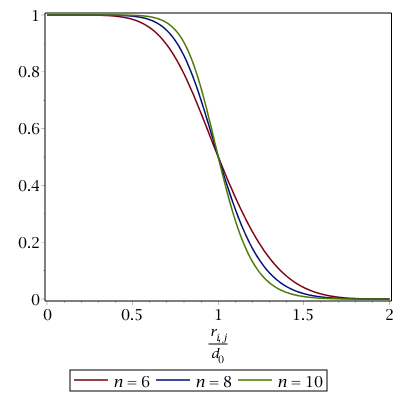
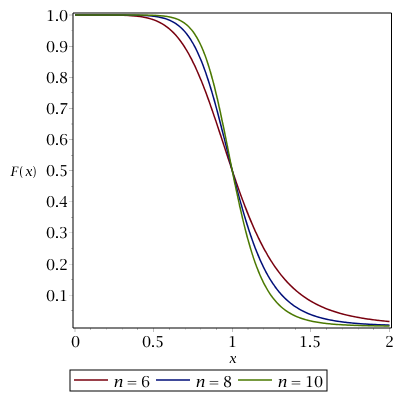
Implementation of HelixAngleContent

Changed region(s): [[0.03, 0.03, 0.99, 0.9]]

diff --git a/ufedmm/cvlib.py b/ufedmm/cvlib.py
@@ -48,16 +48,23 @@ class CoordinationNumber(openmm.CustomNonbondedForce):
 
     .. math::
         N(\\mathbf{g}_1, \\mathbf{g}_2) = \\sum_{i \\in \\mathbf{g}_1} \\sum_{j \\in \\mathbf{g}_2}
-                                          F_n \\left(\\frac{d_{i,j}}{d_0}\\right)
+                     S\\left(\\frac{d_{i,j}}{d_0}-1\\right) F_n \\left(\\frac{d_{i,j}}{d_0}\\right)
 
     where :math:`d_0` is a threshold distance and :math:`d_{ij}` is the distance between atoms
     :math:`i \\in \\mathbf{g}_1` and :math:`j \\in \\mathbf{g}_2`.
     The function :math:`F_n(x)` is a continuous step function defined as
 
     .. math::
-        F_n(x) = \\frac{S(x-1)}{1+x^n}
+        F_n(x) = \\frac{1}{1+x^n}
 
-    where :math:`n` is a sharpness parameter and :math:`S(x)` is a switching function given by
+    where :math:`n` is a sharpness parameter. With :math:`n = 6` (default), this is the same
+    function defined in :cite:`Iannuzzi_2003`. It has the following shape for varying `n` values:
+
+    .. image::
+        figures/coordination_number.png
+        :align: center
+
+    Besides, :math:`S(x)` is a switching function given by
 
     .. math::
         S(x) = \\begin{cases}
@@ -66,16 +73,8 @@ class CoordinationNumber(openmm.CustomNonbondedForce):
                    0 & x > 1
                \\end{cases}
 
-    It has the following shape:
-
-    .. image::
-        figures/coordination_number.png
-        :align: center
-
-    With :math:`n = 6` (default), the amount summed up for each atom pair is the same as the one
-    defined in :cite:`Iannuzzi_2003`, except that here it decays more smoothly to zero throughout
-    the interval :math:`r_{i,j} \\in [d_0, 2 d_0]`, meaning that :math:`2 d_0` is an actual cutoff
-    distance.
+    Thus, the amount summed up for each atom pair decays smoothly to zero throughout the interval
+    :math:`r_{i,j} \\in [d_0, 2 d_0]`, meaning that :math:`2 d_0` is an actual cutoff distance.
 
     .. warning::
         If the two specified atom groups share atoms, each pair `i,j` among these atoms will be
@@ -115,20 +114,21 @@ class CoordinationNumber(openmm.CustomNonbondedForce):
         self.addInteractionGroup(group1, group2)
 
 
-class AngleHelixContent(openmm.CustomCompoundBondForce):
+class HelixAngleContent(openmm.CustomAngleForce):
     """
      Fractional alpha-helix content of a sequence of residues in a protein chain based on the
      angles between consecutive alpha-carbon atoms, defined as follows:
 
     .. math::
         \\alpha_\\theta(r_M,\\cdots,r_N) = \\frac{1}{N-M-1} \\sum_{i=M+1}^{N-1} F_n\\left(
-        \\frac{|\\theta(\\mathrm{C}_\\alpha^{i-1},\\mathrm{C}_\\alpha^i,\\mathrm{C}_\\alpha^{i+1})
-        - \\theta_\\mathrm{ref}|}{\\delta \\theta_0}\\right)
+        \\frac{\\theta(\\mathrm{C}_\\alpha^{i-1},\\mathrm{C}_\\alpha^i,\\mathrm{C}_\\alpha^{i+1})
+        - \\theta_\\mathrm{ref}}{\\delta \\theta_0}\\right)
 
     where :math:`\\theta(\\mathrm{C}_\\alpha^i,\\mathrm{C}_\\alpha^{i+1},\\mathrm{C}_\\alpha^{i+2})`
     is the angle between three consecutive alpha-carbon atoms.
 
-    The function :math:`F_n(x)` is defined as in :class:`CoordinationNumber`.
+    The function :math:`F_n(x)` is defined as in :class:`CoordinationNumber`, but only even integer
+    values are accepted for `n`.
 
     Parameters
     ----------
@@ -139,7 +139,7 @@ class AngleHelixContent(openmm.CustomCompoundBondForce):
 
     Keyword Args
     ------------
-        n : int or float, default=6
+        n : even integer, default=6
             Exponent that controls the sharpness of the sigmoidal function.
         theta_ref : unit.Quantity, default=88*unit.degrees
             The reference value of the alpha carbon angle in the alpha helix.
@@ -150,10 +150,21 @@ class AngleHelixContent(openmm.CustomCompoundBondForce):
 
     def __init__(self, topology, first, last,
                  n=6, theta_ref=88*unit.degrees, theta_tol=15*unit.degrees):
-        pass
+
+        residues = [r for (i, r) in enumerate(topology.residues()) if first <= i <= last]
+        if len(set(r.chain.index for r in residues)) > 1:
+            raise ValueError('AngleHelixContent requires all residues in a single chain')
+        if n % 2 != 0:
+            raise ValueError("AngleHelixContent requires n to be an even integer number")
+        super().__init__(f'1/({last-first-1}*(1+x^{n})); x=(theta - theta_ref)/theta_tol')
+        self.addGlobalParameter('theta_ref', theta_ref)
+        self.addGlobalParameter('theta_tol', theta_tol)
+        alpha_carbons = [atom.index for r in residues for atom in r.atoms() if atom.name == 'CA']
+        for i, j, k in zip(alpha_carbons[0:-3], alpha_carbons[1:-2], alpha_carbons[2:-1]):
+            self.addAngle(i, j, k)
 
 
-class HydrogenBondHelixContent(openmm.CustomCompoundBondForce):
+class HelixHydrogenBondContent(openmm.CustomCompoundBondForce):
     """
      Fractional alpha-helix content of a sequence of residues in a protein chain based on the
      hydrogen bonds between oxygen atoms and H-N groups located four residues apart, defined as
@@ -188,7 +199,7 @@ class HydrogenBondHelixContent(openmm.CustomCompoundBondForce):
         pass
 
 
-class RamachandranHelixContent(openmm.CustomCompoundBondForce):
+class HelixRamachandranContent(openmm.CustomCompoundBondForce):
     """
      Fractional alpha-helix content of a sequence of residues in a protein chain based on the
      Ramachandran dihedral angles, defined as follows:
